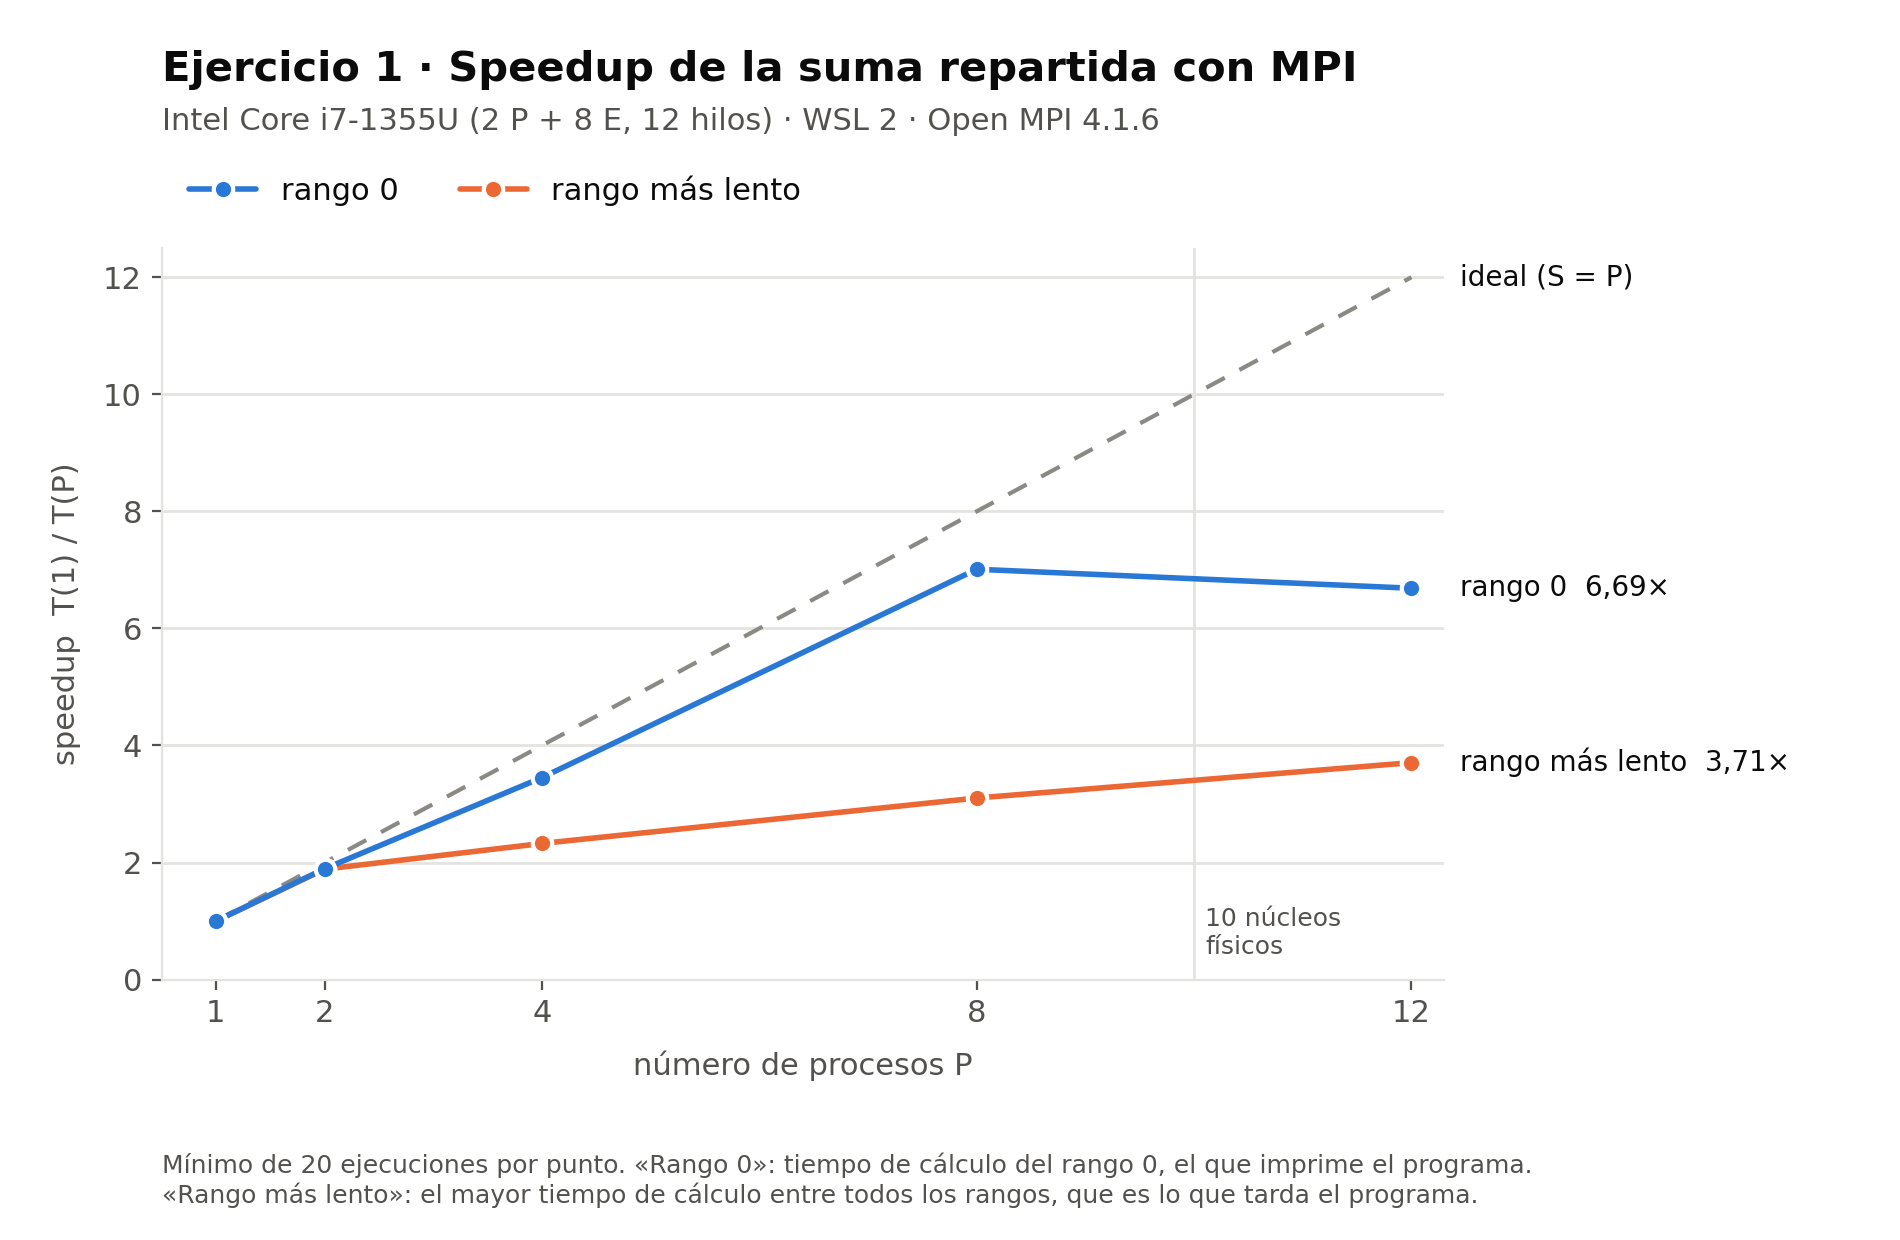
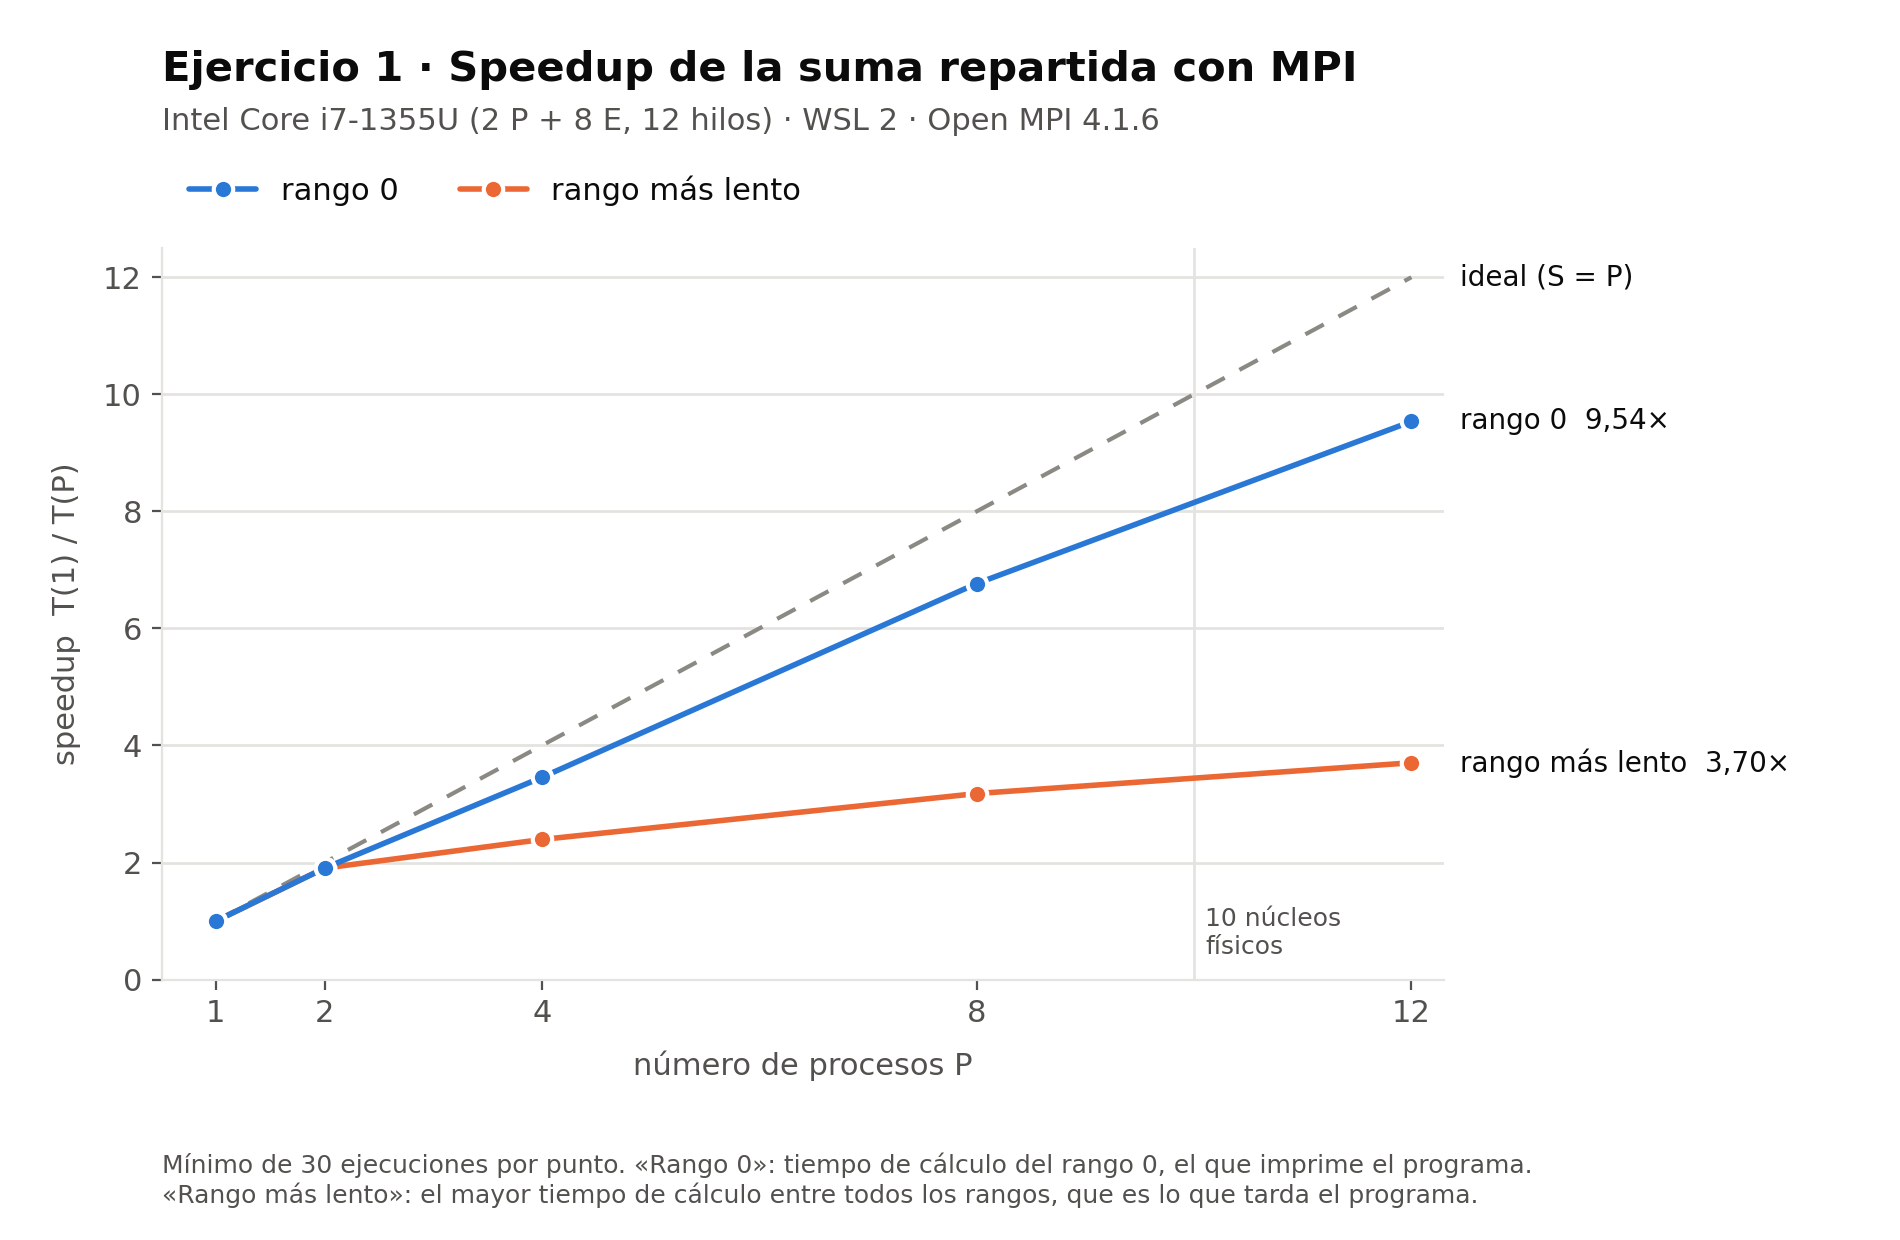
Actualización Resultados Ejercicio 1

diff --git a/PracticaT4/resultados/ejercicio1/tabla_ej1.md b/PracticaT4/resultados/ejercicio1/tabla_ej1.md
@@ -1,11 +1,11 @@
-Tiempos de la suma (solo la funcion `trozo`, medida con MPI_Wtime). Minimo de 20 ejecuciones por fila; entre parentesis, la mediana.
+Tiempos de la suma (solo la funcion `trozo`, medida con MPI_Wtime). Minimo de 30 ejecuciones por fila; entre parentesis, la mediana.
 
 | Procesos | T rango 0 (s) | T mas lento (s) | Speedup rango 0 | Eficiencia | Speedup mas lento | Eficiencia |
 |---:|---:|---:|---:|---:|---:|---:|
-| 1 | 0,2454 (0,2529) | 0,2454 (0,2529) | 1,00 | 100,0 % | 1,00 | 100,0 % |
-| 2 | 0,1296 (0,1327) | 0,1301 (0,1347) | 1,89 | 94,7 % | 1,89 | 94,3 % |
-| 4 | 0,0711 (0,0993) | 0,1055 (0,1162) | 3,45 | 86,3 % | 2,33 | 58,2 % |
-| 8 | 0,0350 (0,0764) | 0,0791 (0,0825) | 7,01 | 87,6 % | 3,10 | 38,8 % |
-| 12 | 0,0367 (0,0578) | 0,0662 (0,0765) | 6,69 | 55,7 % | 3,71 | 30,9 % |
+| 1 | 0,2260 (0,2414) | 0,2260 (0,2414) | 1,00 | 100,0 % | 1,00 | 100,0 % |
+| 2 | 0,1187 (0,1301) | 0,1187 (0,1301) | 1,90 | 95,2 % | 1,90 | 95,2 % |
+| 4 | 0,0654 (0,0898) | 0,0944 (0,1040) | 3,46 | 86,4 % | 2,39 | 59,9 % |
+| 8 | 0,0334 (0,0718) | 0,0711 (0,0811) | 6,77 | 84,6 % | 3,18 | 39,7 % |
+| 12 | 0,0237 (0,0628) | 0,0610 (0,0711) | 9,54 | 79,5 % | 3,70 | 30,9 % |
 
 Speedup = T(1 proceso) / T(P procesos), con los minimos. Eficiencia = speedup / P.
